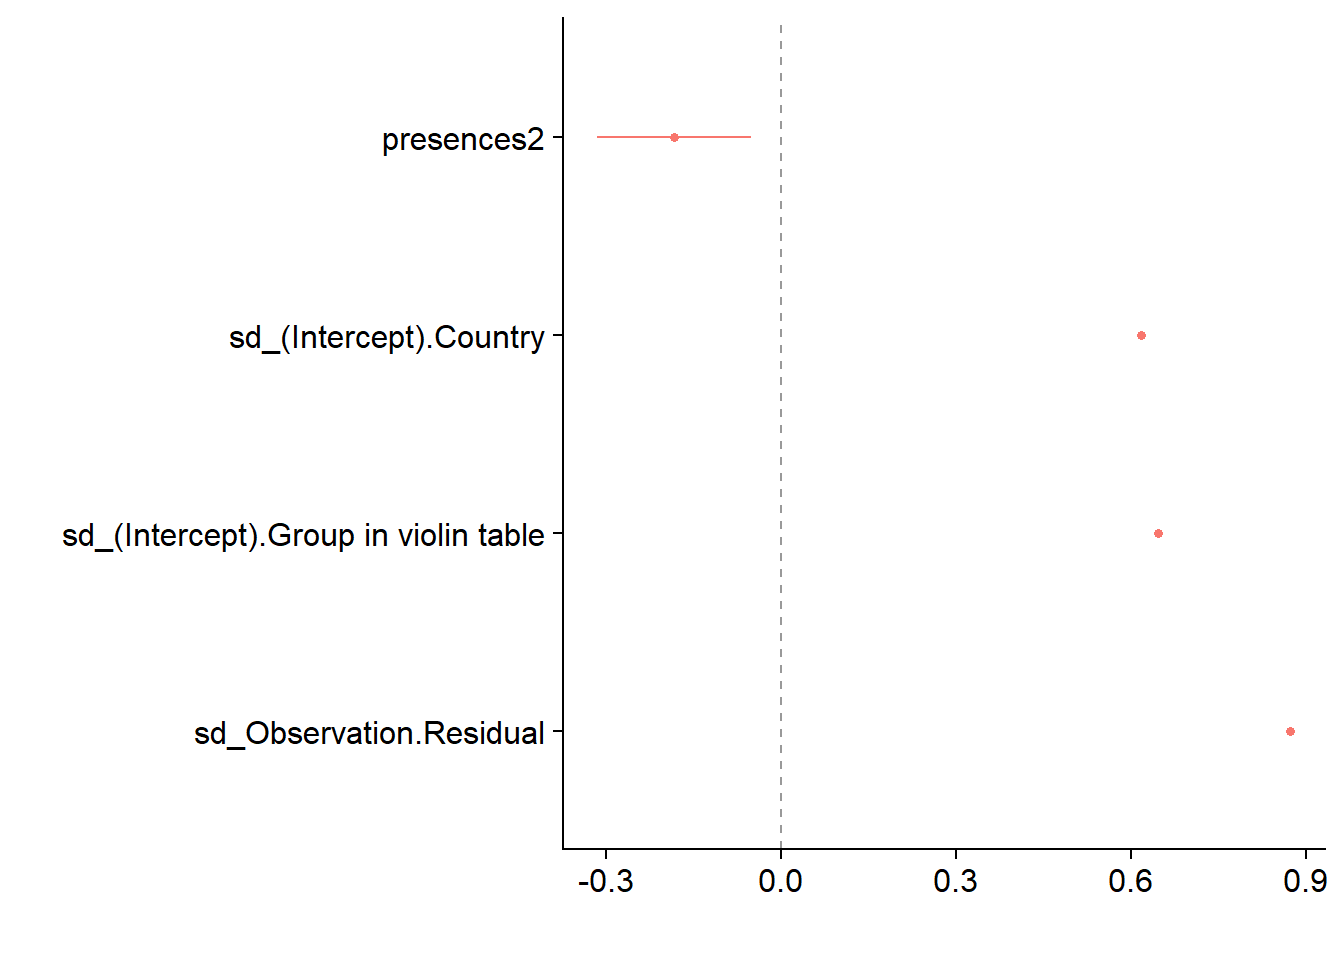
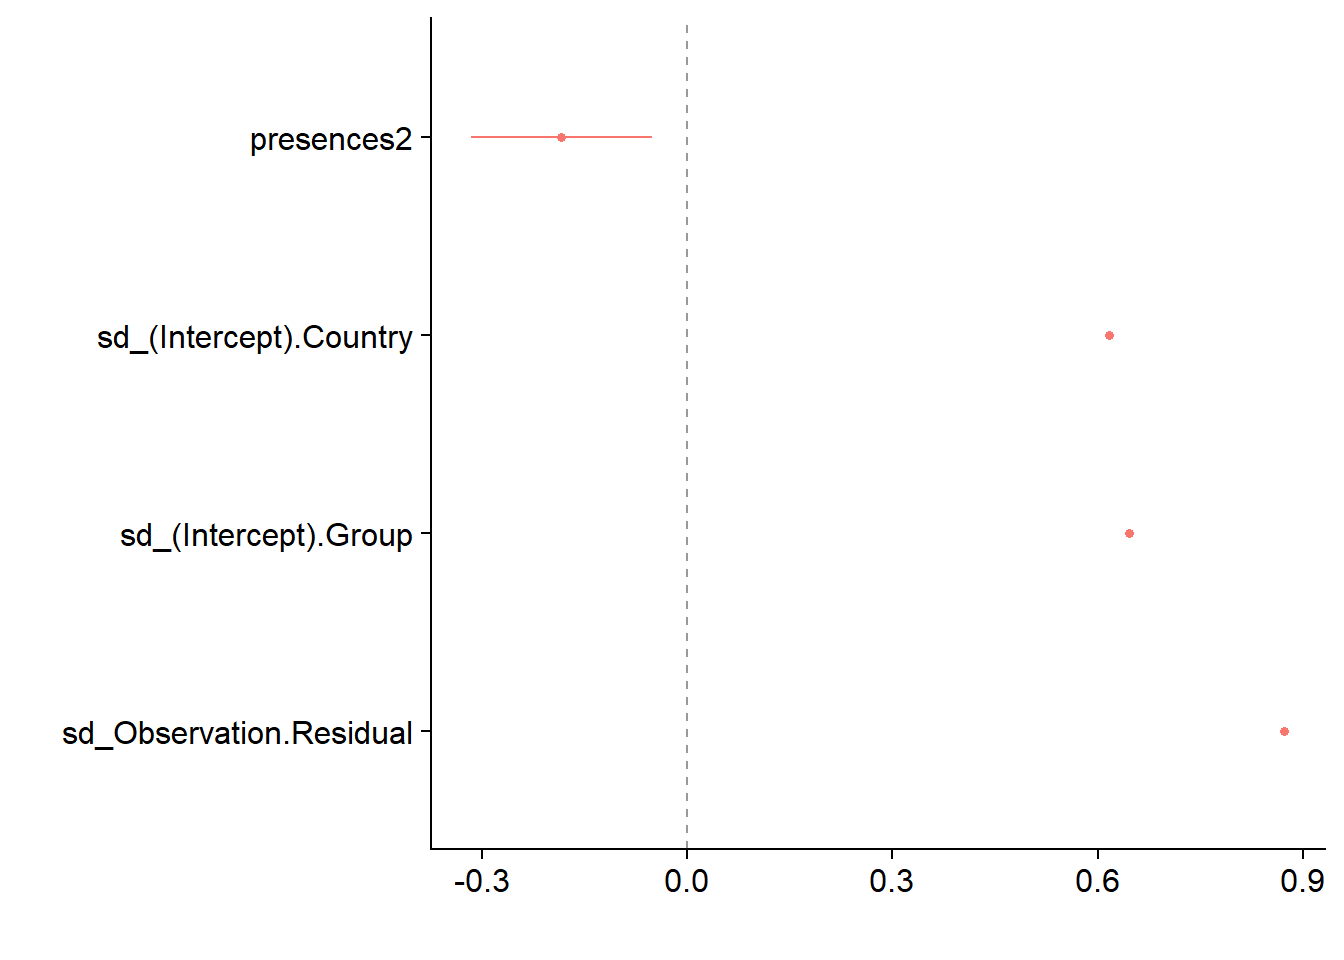
Build site.

diff --git a/docs/yield_link.html b/docs/yield_link.html
@@ -504,16 +504,16 @@ This reproducible <a href="http://rmarkdown.rstudio.com">R Markdown</a> analysis
 <div class="panel panel-default">
 <div class="panel-heading">
 <p class="panel-title">
-<a data-toggle="collapse" data-parent="#workflowr-checks" href="#strongRepositoryversionstrongahrefhttpsgithubcomphilippbayerRgeneanalysistree25f0f54625162de190d178f4c2496921c8fe8bf5targetblank25f0f54a"> <span class="glyphicon glyphicon-ok text-success" aria-hidden="true"></span> <strong>Repository version:</strong> <a href="https://github.com/philippbayer/R_gene_analysis/tree/25f0f54625162de190d178f4c2496921c8fe8bf5" target="_blank">25f0f54</a> </a>
+<a data-toggle="collapse" data-parent="#workflowr-checks" href="#strongRepositoryversionstrongahrefhttpsgithubcomphilippbayerRgeneanalysistree69e9c2938f188f9140d621f44f7e0206c3e7a0ectargetblank69e9c29a"> <span class="glyphicon glyphicon-ok text-success" aria-hidden="true"></span> <strong>Repository version:</strong> <a href="https://github.com/philippbayer/R_gene_analysis/tree/69e9c2938f188f9140d621f44f7e0206c3e7a0ec" target="_blank">69e9c29</a> </a>
 </p>
 </div>
[2 lines of base64/hex data omitted]
 <div class="panel-body">
 <p>
 Great! You are using Git for version control. Tracking code development and connecting the code version to the results is critical for reproducibility.
 </p>
 <p>
-The results in this page were generated with repository version <a href="https://github.com/philippbayer/R_gene_analysis/tree/25f0f54625162de190d178f4c2496921c8fe8bf5" target="_blank">25f0f54</a>. See the <em>Past versions</em> tab to see a history of the changes made to the R Markdown and HTML files.
+The results in this page were generated with repository version <a href="https://github.com/philippbayer/R_gene_analysis/tree/69e9c2938f188f9140d621f44f7e0206c3e7a0ec" target="_blank">69e9c29</a>. See the <em>Past versions</em> tab to see a history of the changes made to the R Markdown and HTML files.
 </p>
 <p>
 Note that you need to be careful to ensure that all relevant files for the analysis have been committed to Git prior to generating the results (you can use <code>wflow_publish</code> or <code>wflow_git_commit</code>). workflowr only checks the R Markdown file, but you know if there are other scripts or data files that it depends on. Below is the status of the Git repository when the results were generated:
@@ -522,6 +522,7 @@ Note that you need to be careful to ensure that all relevant files for the analy
 Ignored files:
     Ignored:    .Rhistory
     Ignored:    .Rproj.user/
+    Ignored:    analysis/figure/
 
 Untracked files:
     Untracked:  data/Brec_R1.txt
@@ -601,6 +602,40 @@ Message
 </tr>
 </thead>
 <tbody>
+<tr>
+<td>
+Rmd
+</td>
+<td>
+<a href="https://github.com/philippbayer/R_gene_analysis/blob/69e9c2938f188f9140d621f44f7e0206c3e7a0ec/analysis/yield_link.Rmd" target="_blank">69e9c29</a>
+</td>
+<td>
+Philipp Bayer
+</td>
+<td>
+2020-11-05
+</td>
+<td>
+wflow_publish(“analysis/yield_link.Rmd”)
+</td>
+</tr>
+<tr>
+<td>
+html
+</td>
+<td>
+<a href="https://rawcdn.githack.com/philippbayer/R_gene_analysis/5ddfe2bc7eddd83a8fb3144636a7840f7ce4270f/docs/yield_link.html" target="_blank">5ddfe2b</a>
+</td>
+<td>
+Philipp Bayer
+</td>
+<td>
+2020-11-05
+</td>
+<td>
+Build site.
+</td>
+</tr>
 <tr>
 <td>
 Rmd
@@ -1380,14 +1415,21 @@ presences.x -0.991</code></pre>
 <pre class="r"><code>qqnorm(resid(mixed.lmer))
 qqline(resid(mixed.lmer))</code></pre>
 <p><img src="figure/yield_link.Rmd/unnamed-chunk-44-1.png" width="672" style="display: block; margin: auto;" /></p>
-<div id="plotting-effect-of-each-covariate" class="section level5">
-<h5>Plotting effect of each covariate</h5>
-<pre class="r"><code>re.effects &lt;- plot_model(mixed.lmer, type = &quot;re&quot;, show.values = TRUE)</code></pre>
+</div>
+<div id="plotting-effect-of-each-covariate" class="section level4">
+<h4>Plotting effect of each covariate</h4>
+<pre class="r"><code>(re.effects &lt;- plot_model(mixed.lmer, type = &quot;re&quot;, show.values = TRUE))</code></pre>
+<pre><code>[[1]]</code></pre>
+<p><img src="figure/yield_link.Rmd/unnamed-chunk-45-1.png" width="672" style="display: block; margin: auto;" /></p>
+<pre><code>
+[[2]]</code></pre>
+<p><img src="figure/yield_link.Rmd/unnamed-chunk-45-2.png" width="672" style="display: block; margin: auto;" /></p>
 <pre class="r"><code>#lmerTest breaks these other packages so I better unload it and reload only lme4
 detach(&quot;package:lmerTest&quot;, unload=TRUE)
-detach(&quot;package:lme4&quot;, unload=TRUE)
-library(lme4)
-mixed.lmer &lt;- lmer(Yield2 ~ presences2 + (1|`Group in violin table`) + (1|Country), data=yield_country_nbs_joined_groups)
+
+yield_country_nbs_joined_groups_renamed &lt;- yield_country_nbs_joined_groups
+names(yield_country_nbs_joined_groups_renamed) &lt;- c(&#39;names&#39;, &#39;presences.x&#39;, &#39;PI-ID&#39;, &#39;Group&#39;, &#39;presences2&#39;, &#39;presences.y&#39;, &#39;Yield&#39;, &#39;Yield2&#39;, &#39;Country&#39;)
+mixed.lmer &lt;- lmer(Yield2 ~ presences2 + (1|Group) + (1|Country), data=yield_country_nbs_joined_groups_renamed)
 
 dwplot(mixed.lmer,
        vline = geom_vline(xintercept = 0, colour = &quot;grey60&quot;, linetype = 2))</code></pre>
@@ -1416,9 +1458,21 @@ Akaike Inf. Crit.             1967.003
 Bayesian Inf. Crit.           1990.043           
 =================================================
 Note:               *p&lt;0.05; **p&lt;0.01; ***p&lt;0.001</code></pre>
+<pre class="r"><code>library(ggeffects)
+ggpredict(mixed.lmer, terms = c(&quot;presences2&quot;,  &#39;Group&#39;), type = &quot;re&quot;) %&gt;% 
+   plot() +
+   theme_minimal()</code></pre>
+<p><img src="figure/yield_link.Rmd/unnamed-chunk-48-1.png" width="672" style="display: block; margin: auto;" /> Let’s also plot that for non-normalised data</p>
+<pre class="r"><code>mixed.lmer &lt;- lmer(Yield ~ presences.x + (1|Group) + (1|Country), data=yield_country_nbs_joined_groups_renamed)
+ggpredict(mixed.lmer, terms = c(&quot;presences.x&quot;,  &#39;Group&#39;), type = &quot;re&quot;) %&gt;% 
+   plot() +
+   theme_minimal_hgrid() +
+  xlab(&#39;Raw NLR count&#39;) +
+  ylab(&#39;Raw yield&#39;)</code></pre>
+<p><img src="figure/yield_link.Rmd/unnamed-chunk-49-1.png" width="672" style="display: block; margin: auto;" /></p>
 <pre class="r"><code># alright back to regular programming
-library(lmerTest)</code></pre>
-</div>
+library(lmerTest)
+mixed.lmer &lt;- lmer(Yield2 ~ presences2 + (1|`Group in violin table`) + (1|Country), data=yield_country_nbs_joined_groups)</code></pre>
 </div>
 <div id="more-complex-models" class="section level4">
 <h4>More complex models</h4>
@@ -1498,7 +1552,7 @@ boundary (singular) fit: see ?isSingular</code></pre>
       theme(legend.position = &quot;none&quot;) +
       xlab(&#39;Scaled and centered NLR gene count&#39;) +
       ylab(&#39;Scaled and centered yield&#39;)</code></pre>
-<p><img src="figure/yield_link.Rmd/unnamed-chunk-50-1.png" width="672" style="display: block; margin: auto;" /> Quite similar, mostly downwards trajectories for each country.</p>
+<p><img src="figure/yield_link.Rmd/unnamed-chunk-53-1.png" width="672" style="display: block; margin: auto;" /> Quite similar, mostly downwards trajectories for each country.</p>
 <p>Let’s do that non-normalised:</p>
 <pre class="r"><code>mixed.lmer &lt;- lmer(Yield ~ presences.x + (1|`Group in violin table`) + (1 + presences.x|Country), data=yield_country_nbs_joined_groups)
 summary(mixed.lmer)</code></pre>
@@ -1545,7 +1599,7 @@ Model failed to converge: degenerate  Hessian with 1 negative eigenvalues</code>
       theme(legend.position = &quot;none&quot;) +
       xlab(&#39;Raw NLR gene count&#39;) +
       ylab(&#39;Raw yield&#39;)</code></pre>
-<p><img src="figure/yield_link.Rmd/unnamed-chunk-52-1.png" width="672" style="display: block; margin: auto;" /> Quite similar, mostly downwards trajectories for each country.</p>
+<p><img src="figure/yield_link.Rmd/unnamed-chunk-55-1.png" width="672" style="display: block; margin: auto;" /> Quite similar, mostly downwards trajectories for each country.</p>
 <p>And now both random slopes:</p>
 <pre class="r"><code>mixed.lmer &lt;- lmer(Yield2 ~ presences2 + (1 + presences2|`Group in violin table`) + (1 + presences2|Country), data=yield_country_nbs_joined_groups)
 summary(mixed.lmer)</code></pre>
@@ -1587,7 +1641,7 @@ presences2 0.231 </code></pre>
       theme(legend.position = &quot;none&quot;) +
       xlab(&#39;Scaled and centered NLR gene count&#39;) +
       ylab(&#39;Scaled and centered yield&#39;)</code></pre>
-<p><img src="figure/yield_link.Rmd/unnamed-chunk-54-1.png" width="672" style="display: block; margin: auto;" /> Yeah, nah</p>
+<p><img src="figure/yield_link.Rmd/unnamed-chunk-57-1.png" width="672" style="display: block; margin: auto;" /> Yeah, nah</p>
 </div>
 </div>
 <div id="oil-1" class="section level3">
@@ -1718,14 +1772,14 @@ attached base packages:
 [1] stats     graphics  grDevices utils     datasets  methods   base     
 
 other attached packages:
- [1] lmerTest_3.1-2       stargazer_5.2.2      lme4_1.1-21         
- [4] dotwhisker_0.5.0     sjPlot_2.8.6         Matrix_1.2-18       
- [7] ggforce_0.3.1        ggsignif_0.6.0       cowplot_1.0.0       
-[10] dabestr_0.3.0        magrittr_1.5         ggsci_2.9           
-[13] patchwork_1.0.0      forcats_0.5.0        stringr_1.4.0       
-[16] dplyr_1.0.0          purrr_0.3.4          readr_1.3.1         
-[19] tidyr_1.1.0          tibble_3.0.2         ggplot2_3.3.2       
-[22] tidyverse_1.3.0      workflowr_1.6.2.9000
+ [1] lmerTest_3.1-2       ggeffects_0.16.0     stargazer_5.2.2     
+ [4] dotwhisker_0.5.0     sjPlot_2.8.6         lme4_1.1-21         
+ [7] Matrix_1.2-18        ggforce_0.3.1        ggsignif_0.6.0      
+[10] cowplot_1.0.0        dabestr_0.3.0        magrittr_1.5        
+[13] ggsci_2.9            patchwork_1.0.0      forcats_0.5.0       
+[16] stringr_1.4.0        dplyr_1.0.0          purrr_0.3.4         
+[19] readr_1.3.1          tidyr_1.1.0          tibble_3.0.2        
+[22] ggplot2_3.3.2        tidyverse_1.3.0      workflowr_1.6.2.9000
 
 loaded via a namespace (and not attached):
  [1] TH.data_1.0-10      minqa_1.2.4         colorspace_1.4-1   
@@ -1736,31 +1790,31 @@ loaded via a namespace (and not attached):
 [16] mvtnorm_1.1-1       lubridate_1.7.9     xml2_1.3.2         
 [19] codetools_0.2-16    splines_3.6.3       knitr_1.29         
 [22] sjmisc_2.8.5        polyclip_1.10-0     jsonlite_1.7.1     
-[25] nloptr_1.2.1        ggeffects_0.16.0    broom_0.5.6        
-[28] dbplyr_1.4.4        effectsize_0.3.0    compiler_3.6.3     
-[31] httr_1.4.2          sjstats_0.18.0      emmeans_1.4.5      
-[34] backports_1.1.10    assertthat_0.2.1    cli_2.0.2          
-[37] later_1.1.0.1       tweenr_1.0.1        htmltools_0.5.0    
-[40] tools_3.6.3         coda_0.19-3         gtable_0.3.0       
-[43] glue_1.4.2          Rcpp_1.0.5          cellranger_1.1.0   
-[46] vctrs_0.3.1         nlme_3.1-148        insight_0.10.0     
-[49] xfun_0.17           ps_1.3.4            rvest_0.3.5        
-[52] lifecycle_0.2.0     getPass_0.2-2       MASS_7.3-51.6      
-[55] zoo_1.8-8           scales_1.1.1        hms_0.5.3          
-[58] promises_1.1.1      sandwich_2.5-1      RColorBrewer_1.1-2 
-[61] TMB_1.7.16          yaml_2.2.1          stringi_1.5.3      
-[64] bayestestR_0.7.5    boot_1.3-25         rlang_0.4.7        
-[67] pkgconfig_2.0.3     evaluate_0.14       lattice_0.20-41    
-[70] labeling_0.3        processx_3.4.4      tidyselect_1.1.0   
-[73] plyr_1.8.6          R6_2.4.1            generics_0.0.2     
-[76] multcomp_1.4-13     DBI_1.1.0           mgcv_1.8-31        
-[79] pillar_1.4.4        haven_2.3.1         whisker_0.4        
-[82] withr_2.2.0         survival_3.2-3      performance_0.5.1  
-[85] modelr_0.1.8        crayon_1.3.4        utf8_1.1.4         
-[88] rmarkdown_2.3       grid_3.6.3          readxl_1.3.1       
-[91] blob_1.2.1          callr_3.4.4         git2r_0.27.1       
-[94] reprex_0.3.0        digest_0.6.25       xtable_1.8-4       
-[97] httpuv_1.5.4        numDeriv_2016.8-1.1 munsell_0.5.0      </code></pre>
+[25] nloptr_1.2.1        broom_0.5.6         dbplyr_1.4.4       
+[28] effectsize_0.3.0    compiler_3.6.3      httr_1.4.2         
+[31] sjstats_0.18.0      emmeans_1.4.5       backports_1.1.10   
+[34] assertthat_0.2.1    cli_2.0.2           later_1.1.0.1      
+[37] tweenr_1.0.1        htmltools_0.5.0     tools_3.6.3        
+[40] coda_0.19-3         gtable_0.3.0        glue_1.4.2         
+[43] Rcpp_1.0.5          cellranger_1.1.0    vctrs_0.3.1        
+[46] nlme_3.1-148        insight_0.10.0      xfun_0.17          
+[49] ps_1.3.4            rvest_0.3.5         lifecycle_0.2.0    
+[52] getPass_0.2-2       MASS_7.3-51.6       zoo_1.8-8          
+[55] scales_1.1.1        hms_0.5.3           promises_1.1.1     
+[58] sandwich_2.5-1      RColorBrewer_1.1-2  TMB_1.7.16         
+[61] yaml_2.2.1          stringi_1.5.3       bayestestR_0.7.5   
+[64] boot_1.3-25         rlang_0.4.7         pkgconfig_2.0.3    
+[67] evaluate_0.14       lattice_0.20-41     labeling_0.3       
+[70] processx_3.4.4      tidyselect_1.1.0    plyr_1.8.6         
+[73] R6_2.4.1            generics_0.0.2      multcomp_1.4-13    
+[76] DBI_1.1.0           mgcv_1.8-31         pillar_1.4.4       
+[79] haven_2.3.1         whisker_0.4         withr_2.2.0        
+[82] survival_3.2-3      performance_0.5.1   modelr_0.1.8       
+[85] crayon_1.3.4        utf8_1.1.4          rmarkdown_2.3      
+[88] grid_3.6.3          readxl_1.3.1        blob_1.2.1         
+[91] callr_3.4.4         git2r_0.27.1        reprex_0.3.0       
+[94] digest_0.6.25       xtable_1.8-4        httpuv_1.5.4       
+[97] numDeriv_2016.8-1.1 munsell_0.5.0      </code></pre>
 </div>
 </div>
 </div>
